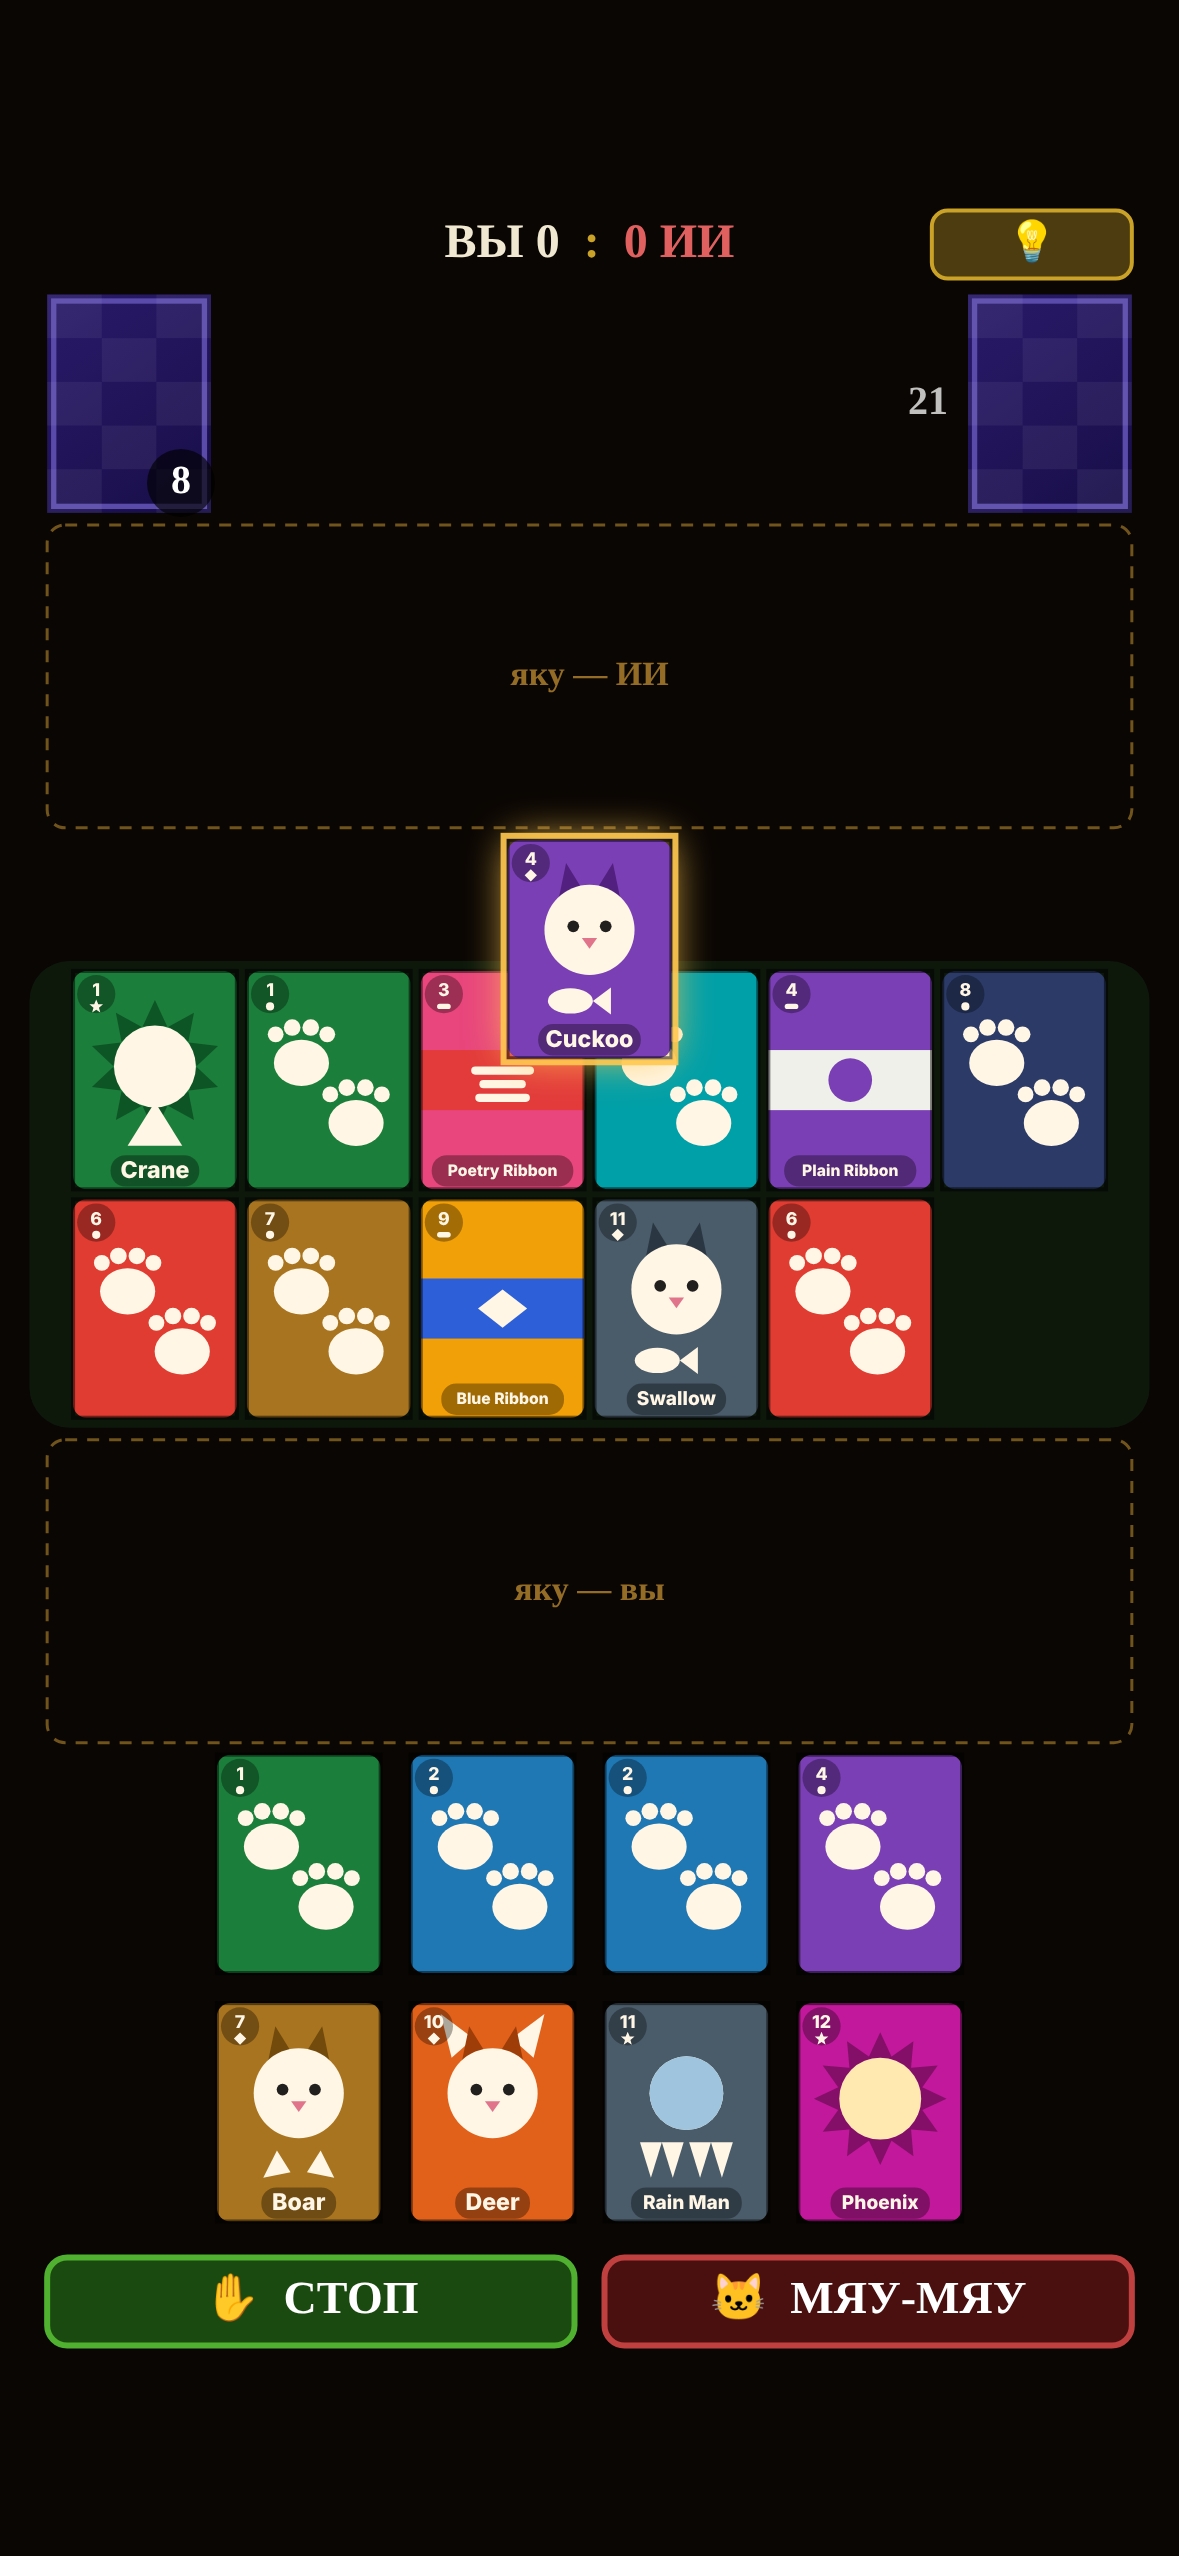
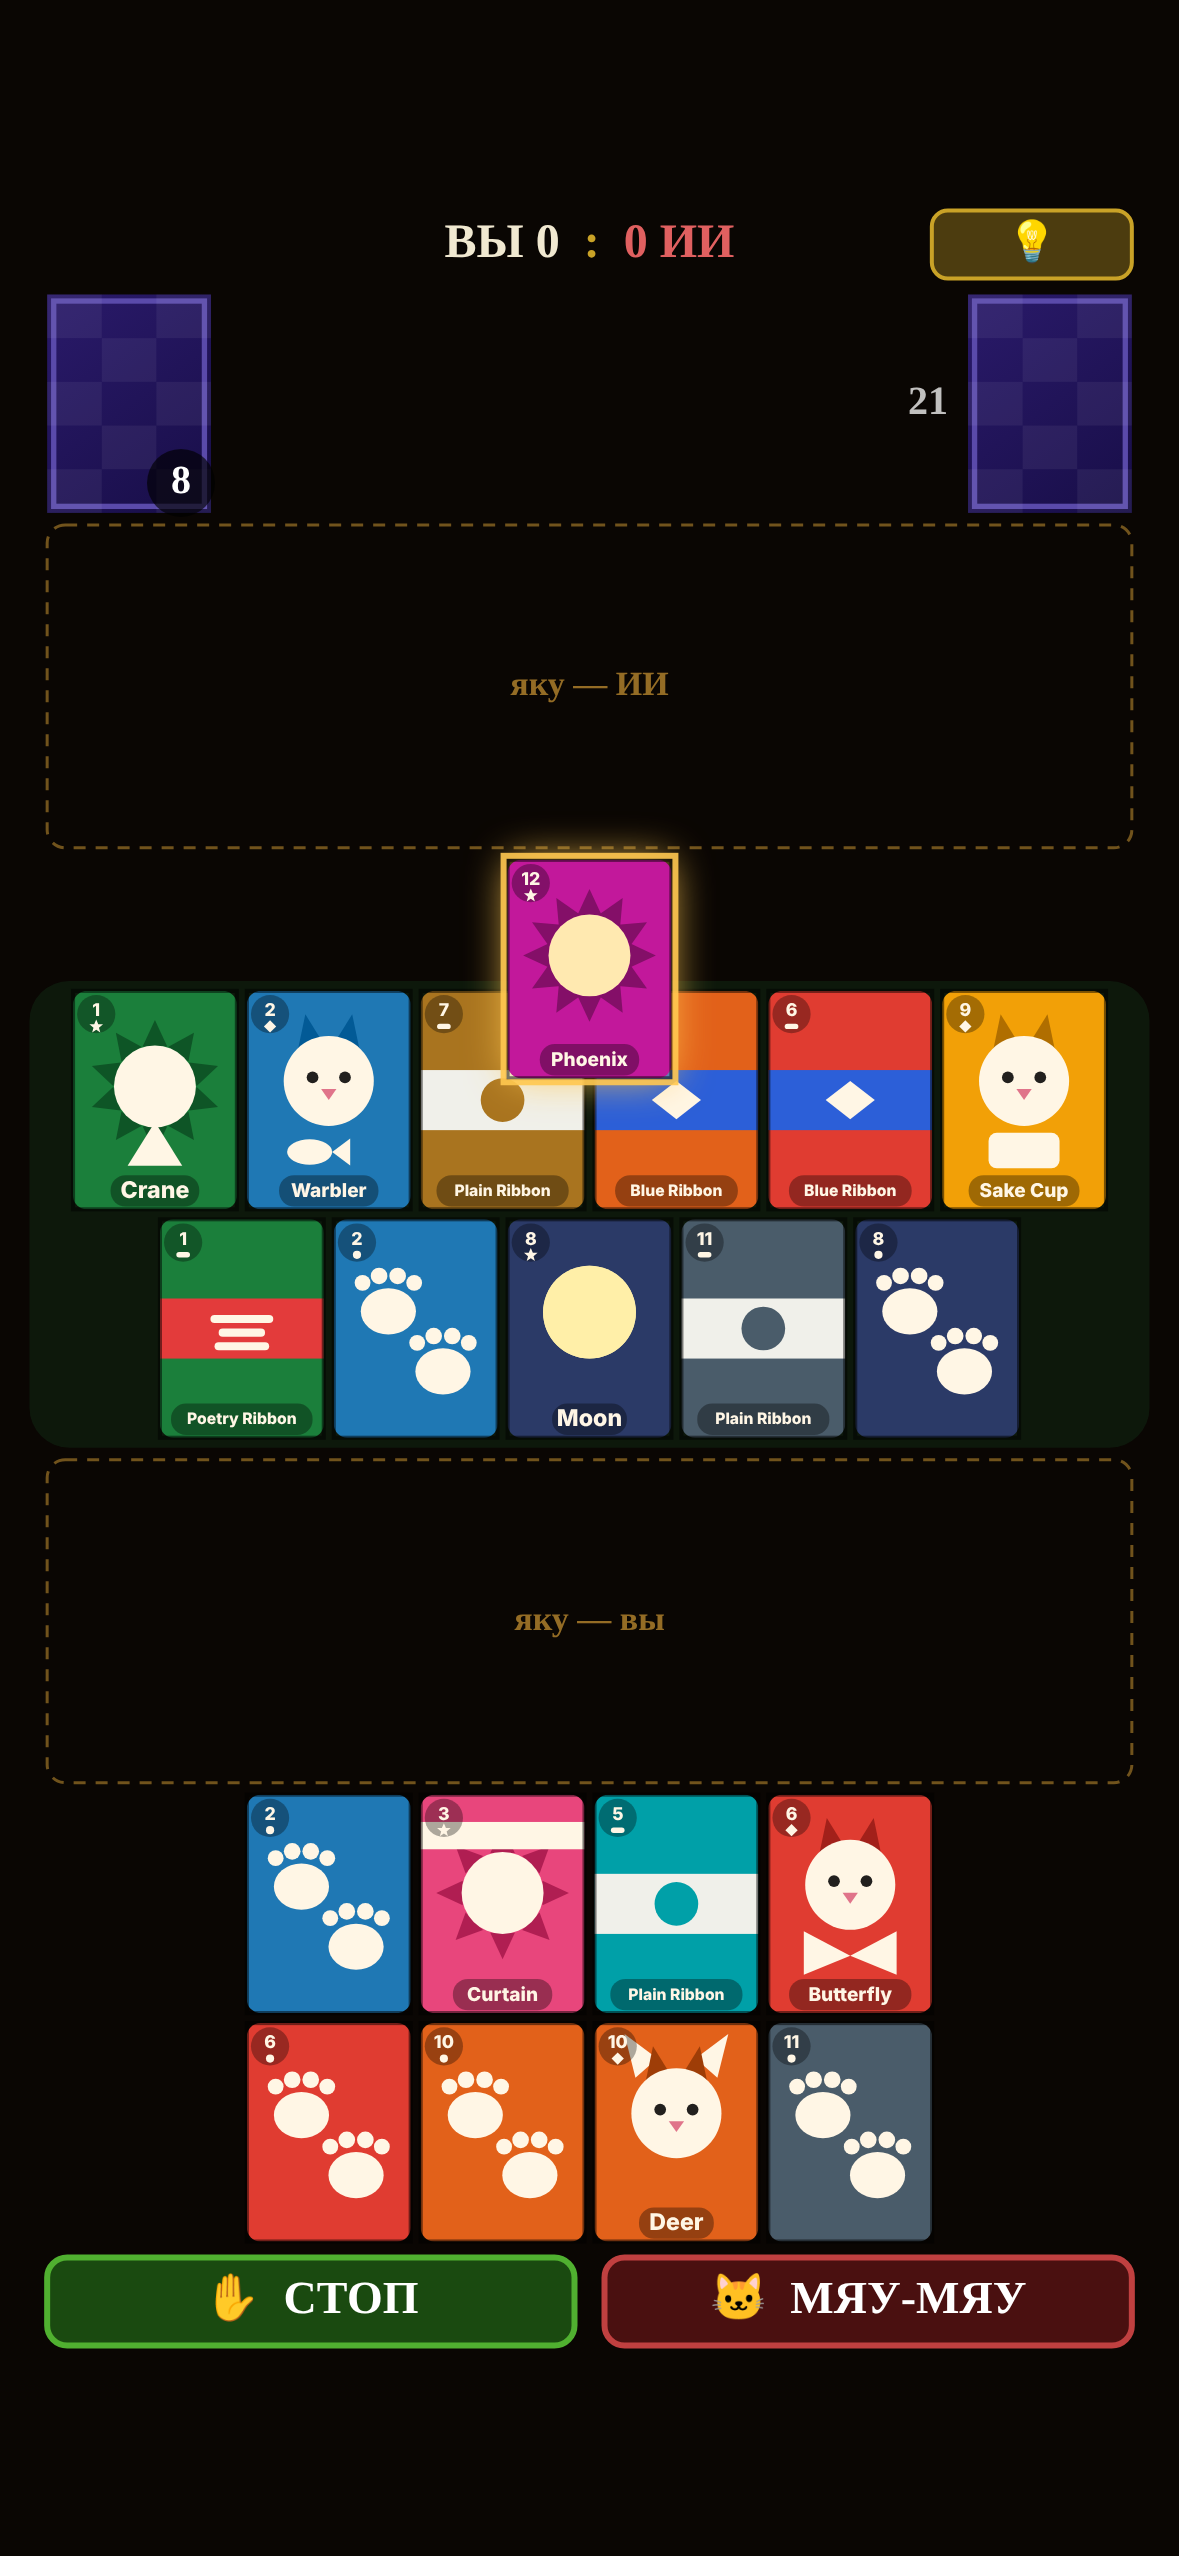
UI: стол — каждый ряд центрируется сам по себе, без дыр; новая карта в ряд, где меньше
Claude-Session: https://claude.ai/code/session_01YWBhc7XyH6Quahzkpjq16G

diff --git a/index.html b/index.html
@@ -317,40 +317,42 @@ function boardLayout(V=VIEW){
     handY1,handY2,
   };
 }
-// Стол: места 2×6. Сначала 2×4 (ряд 1, ряд 2), потом колонки 5–6. Карта
-// держит своё место, новая занимает первое свободное; новые карты одного
-// хода — по месяцу. Сетка по центру экрана по числу занятых колонок
-// (минимум 4): появилась 5-я колонка — сетка съезжает на полкарты влево.
-const TABLE_SLOTS=[0,1,2,3,6,7,8,9,4,10,5,11]; // порядок заполнения сетки 2×6
+// Стол: 2 ряда до 6 карт, каждый ряд центрируется сам по себе, без дыр.
+// Карта держит свой ряд и порядок в нём (G.tslot[id] = {r, o}); новая карта
+// идёт в ряд, где карт меньше (при равенстве — в верхний), в конец ряда.
+// Новые карты одного хода — по месяцу. 4 карты и меньше — один ряд по
+// центру стола. Больше 12 (редко) — 3 ряда по 6 ужатых карт.
 function tableLayout(L){
-  const slot=G.tslot||(G.tslot={});
+  let slot=G.tslot;
+  if(!slot||Object.values(slot).some(v=>typeof v!=='object')) slot=G.tslot={}; // старый формат сохранения
   const ids=new Set(G.table.map(c=>c.id));
   for(const id in slot) if(!ids.has(+id)) delete slot[id];
-  const used=new Set(Object.values(slot));
-  [...G.table].filter(c=>slot[c.id]===undefined).sort((a,b)=>a.m-b.m).forEach(c=>{
-    const free=TABLE_SLOTS.find(s=>!used.has(s));
-    slot[c.id]=free===undefined?12+Object.keys(slot).length:free; used.add(slot[c.id]);
+  const n=G.table.length;
+  if(n<=4) for(const id in slot) slot[id].r=0;   // при росте стола 5-я карта уйдёт вниз
+  let seq=Math.max(0,...Object.values(slot).map(v=>v.o+1));
+  const cnt=[0,0]; Object.values(slot).forEach(v=>{if(v.r<2)cnt[v.r]++;});
+  [...G.table].filter(c=>!slot[c.id]).sort((a,b)=>a.m-b.m).forEach(c=>{
+    let r=cnt[1]<cnt[0]?1:0;
+    if(cnt[r]>=TABLE_COLS) r=1-r;
+    if(cnt[r]>=TABLE_COLS) r=2;
+    if(r<2) cnt[r]++;
+    slot[c.id]={r,o:seq++};
   });
-  // Больше 12 карт (редко) — 3 ряда по 6 ужатых карт, по порядку мест
-  if(G.table.length>12){
-    const sorted=[...G.table].sort((a,b)=>slot[a.id]-slot[b.id]);
-    const rows=Math.ceil(sorted.length/TABLE_COLS);
-    const h=(L.table.h-(rows-1)*B_GAP)/rows, w=h*BCW/BCH, x0=(L.VW-(TABLE_COLS*w+(TABLE_COLS-1)*B_GAP))/2;
-    return sorted.map((card,i)=>({card,w,h,
-      x:x0+(i%TABLE_COLS)*(w+B_GAP), y:L.table.y+Math.floor(i/TABLE_COLS)*(h+B_GAP)}));
+  const ord=(a,b)=>slot[a.id].r-slot[b.id].r||slot[a.id].o-slot[b.id].o;
+  const sorted=[...G.table].sort(ord);
+  const row=(cards,y,w,h)=>{
+    const x0=(L.VW-(cards.length*w+(cards.length-1)*B_GAP))/2;
+    return cards.map((card,i)=>({card,w,h,x:x0+i*(w+B_GAP),y}));
+  };
+  if(n<=4) return row(sorted,L.table.y+(L.table.h-BCH)/2,BCW,BCH);
+  if(sorted.some(c=>slot[c.id].r===2)){
+    const rows=Math.ceil(n/TABLE_COLS), h=(L.table.h-(rows-1)*B_GAP)/rows, w=h*BCW/BCH;
+    const out=[];
+    for(let i=0;i<rows;i++) out.push(...row(sorted.slice(i*TABLE_COLS,(i+1)*TABLE_COLS),L.table.y+i*(h+B_GAP),w,h));
+    return out;
   }
-  // 4 карты и меньше — собираются в один ряд по центру стола (места уплотняются
-  // в верхний ряд, чтобы при росте стола раскладка продолжилась без дыр)
-  if(G.table.length<=4){
-    const sorted=[...G.table].sort((a,b)=>slot[a.id]-slot[b.id]);
-    sorted.forEach((c,i)=>slot[c.id]=TABLE_SLOTS[i]);
-    const n=sorted.length, x0=(L.VW-(n*BCW+(n-1)*B_GAP))/2, y=L.table.y+(L.table.h-BCH)/2;
-    return sorted.map((card,i)=>({card,w:BCW,h:BCH,x:x0+i*(BCW+B_GAP),y}));
-  }
-  const cols=Math.max(4,...G.table.map(c=>slot[c.id]%TABLE_COLS+1));
-  const x0=(L.VW-(cols*BCW+(cols-1)*B_GAP))/2;
-  return G.table.map(card=>{const s=slot[card.id];
-    return {card,w:BCW,h:BCH,x:x0+(s%TABLE_COLS)*(BCW+B_GAP),y:L.table.y+Math.floor(s/TABLE_COLS)*(BCH+B_GAP)};});
+  return [...row(sorted.filter(c=>slot[c.id].r===0),L.table.y,BCW,BCH),
+          ...row(sorted.filter(c=>slot[c.id].r===1),L.table.y+BCH+B_GAP,BCW,BCH)];
 }
 // Рука игрока — 2 ряда по 4, отсортированы по месяцу. Сам G.pHand не
 // переупорядочивается (на индексы завязаны G.sel/hintActive/playerPlay).

diff --git a/docs/ui-layout.md b/docs/ui-layout.md
@@ -14,14 +14,12 @@
   в центр экрана и встают над столом, **на 40% перекрывая верхний ряд** (`STAGE_OVER`),
   светятся (`slide()`, 320 мс). Взятые карты — со стола, из центра или из руки —
   улетают в блок яку того, кто взял, уменьшаясь и затухая (`noteCaptures`/`drawFlights`, 420 мс).
-- **Стол по центру экрана.** Места 2×6: сначала 2×4 (ряд 1, ряд 2), потом колонки
-  5–6. Карта держит своё место (`G.tslot`), новая занимает первое свободное. Сетка
-  центрируется по числу занятых колонок (минимум 4): появилась 5-я — сетка
-  съезжает на полкарты влево, ушла — возвращается. Больше 12 — 3 ряда ужатых.
-  **4 карты и меньше** — собираются в один ряд по центру стола (места уплотняются
-  в верхний ряд, при росте стола раскладка продолжается без дыр). Перестройки
-  плавные: карты стола переезжают на новое место за 300 мс, карта, легшая на стол
-  из руки или из центра, долетает оттуда (`tableMove`).
+- **Стол: каждый ряд по центру, без дыр.** 2 ряда до 6 карт. Карта держит свой ряд
+  и порядок в нём (`G.tslot[id]={r,o}`); новая идёт в ряд, где карт меньше (при
+  равенстве — в верхний), в конец ряда; новые карты одного хода — по месяцу. Ушла
+  карта — ряд сдвигается к центру. 4 карты и меньше — один ряд по центру стола.
+  Больше 12 (редко) — 3 ряда ужатых. Перестройки плавные: карты переезжают за
+  300 мс, карта, легшая на стол из руки или из центра, долетает оттуда (`tableMove`).
 - **Шапка:** счёт матча «ВЫ n : m ИИ» по центру, 💡 справа; «Раунд N · до 30» убран
   по слову пользователя, слева только «★ Мяу-Мяу», когда объявлено.
   Отдельные счётчики очков раунда в ячейках убраны.
